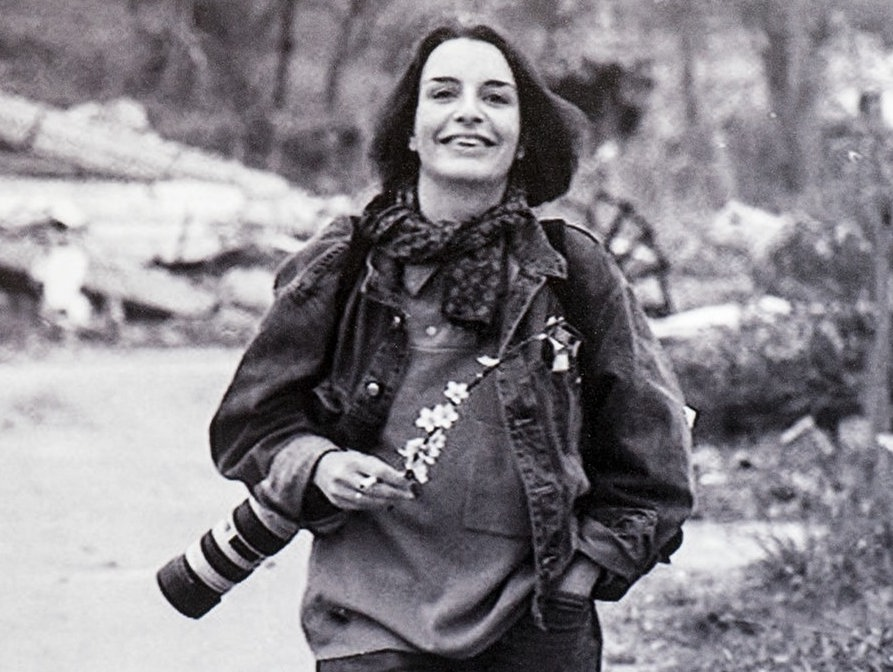
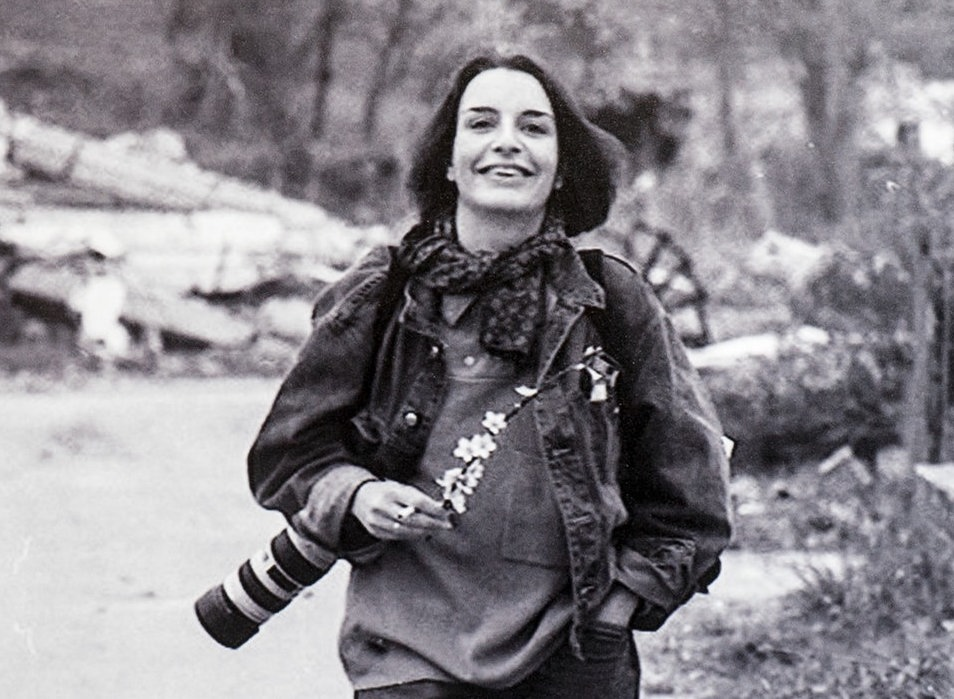
fixes_01

diff --git a/content/memoriam/kurt-schork.md b/content/memoriam/kurt-schork.md
@@ -2,9 +2,9 @@
 name: "Kurt Schork"
 born: 1947
 died: 2000
-banner: 00_KURT_EN.png
-cover: cover.jpg
-excerpt: "Kurt Schork was born on 25 January 1947 in Washington, D.C.. He graduated from Jamestown College in 1969, and studied at Oxford University as a Rhodes scholar later that year - at the same time as the"
+banner: KURT_SCHORK_BANNER.jpg
+cover: KURT_SCHORK_COVER.jpg
+excerpt: "Kurt Schork was born on 25 January 1947 in Washington, D.C.. He graduated from Jamestown College in 1969, and studied at Oxford University as a Rhodes scholar later that year."
 ---
 Kurt Schork was born on 25 January 1947 in Washington, D.C.. He graduated from Jamestown College in 1969, and studied at Oxford University as a Rhodes scholar later that year - at the same time as the future United States President Bill Clinton. Schork worked as a property developer, a political adviser and then chief of staff for the New York City Transit Authority before becoming a journalist. Kurt Schork was lured to journalism late in his life, when at the age of 43 he realized his dream was to become a foreign correspondent. “He was at a stage when he decided he just had to do it,” says his brother, John Schork. “And if he was going to be a journalist, he wouldn’t do things by half-measure. He was into ice climbing and he was an avid and expert skier.”
 

diff --git a/content/memoriam/gerard-rondeau.md b/content/memoriam/gerard-rondeau.md
@@ -2,8 +2,8 @@
 name: "Gérard Rondeau"
 born: 1953
 died: 2016
-banner: 00-GERARD-scaled.jpg
-cover: cover.jpg
+banner: GÉRARD_RONDEAU_BANNER.jpg
+cover: GÉRARD_RONDEAU_COVER.jpg
 photographer: gerard-rondeau-1953-2016
 excerpt: "Gérard Rondeau was born in Chalons-en-Champagne on 10 April in 1953, in a family of teachers. He studied in Reims and in the 1970s he worked at the Alliance Française in Colombo, Sri Lanka."
 ---
